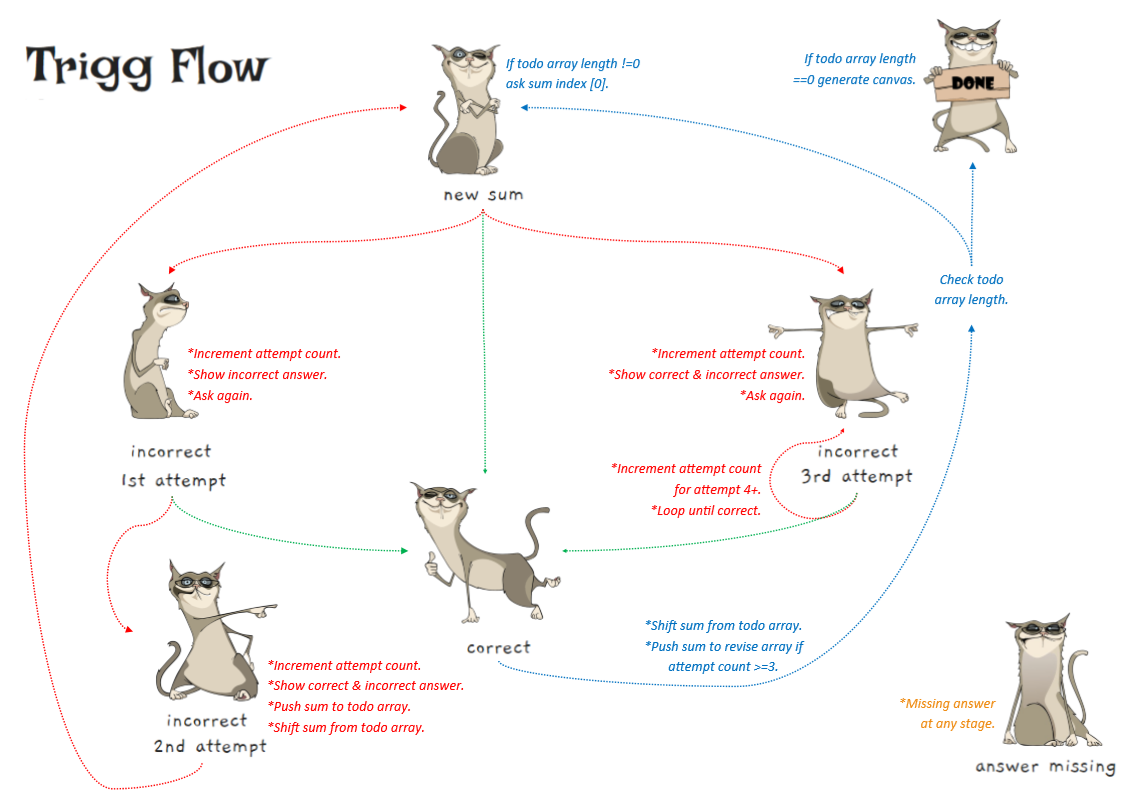
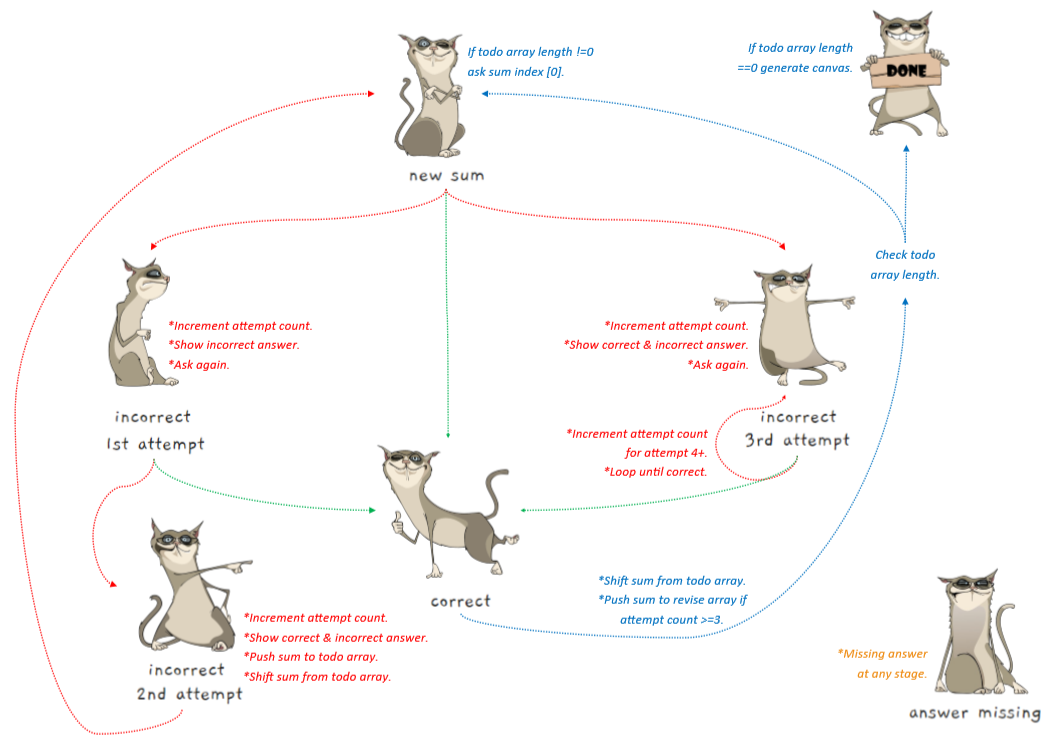
Update README text & images.

diff --git a/README.md b/README.md
@@ -9,7 +9,8 @@
 
 ## UX
 
-Trigg 4 Tables is aimed at primary school children aged 9 to 12 years, who are often set times tables homework. The website allows children to select what they want to practice. Trigg the cat then guides them presenting sums, confirming answers and helping out when needed. Once complete, a detailed report is generated which can be downloaded as a png file to facilitate easy sharing via text, snapchat, WhatsApp etc. The report acts as confirmation that homework has been completed and highlights any sum the child struggled with.
+Trigg 4 Tables is aimed at primary school children aged 9 to 12 years, who are often set times tables homework. The website allows children to select tables to practice. Trigg the cat then guides them presenting sums, confirming answers and helping out when needed. Once complete, a detailed report is generated which can be downloaded as a png file to facilitate easy sharing via WhatsApp, Snapchat, text etc. The report acts as confirmation that homework has been completed and highlights any sum the child struggled with.
+
 Trigg 4 Tables has been designed to address some of the limitations of similar websites and apps:
 
 1. **Target Age** Graphics designed to appeal to an older child. 
@@ -41,7 +42,7 @@ I love maths, enjoy practising times tables and am ever so slightly competitive.
 
 4. **Teacher**
 
-Not every child in my class has someone that can help them with homework. Having canvased their parents, my students are now using Trigg 4 Tables each night to practice the assigned times tables. Students WhatsApp their reports to me. I have noticed a marked improvement in our Friday maths test scores especially amongst students who had been struggling. Other teachers have started to ask about Trigg.
+Not every child in my class has someone that can help with homework. Having canvased parents, my students are now using Trigg 4 Tables each night to practice the assigned times tables. Students WhatsApp their reports to our Trigg group. I have noticed a marked improvement in our Friday maths test scores, especially amongst students who had been struggling. Other teachers have started to ask about Trigg.
 
 
 ### Design
@@ -58,7 +59,7 @@ The look and feel of Trigg 4 Tables was designed to appeal to the target audienc
 
 5. **Fonts** The heading fonts were chosen to convey a sense of fun. Number and keypad fonts were chosen for legibility. Message fonts were chosen to reflect the handwriting of the target audience. 
 
-6. **Preparation** Balsamiq was used to generate [wireframes](https://github.com/coderbeez/trigg4tables/blob/master/assets/wireframes/wireframes.pdf) for various device sizes. The [initial proposal](https://github.com/coderbeez/trigg4tables/blob/master/assets/wireframes/proposal.pdf) document and [Bootstrap plan(https://github.com/coderbeez/trigg4tables/blob/master/assets/wireframes/bootstrap.PNG) were completed using Microsoft Powerpoint. Testing during development resulted in several changes to the original design with a move away from device keypads, a reduction in text, and a focus on maintaining a scroll free site even on smaller mobiles. 
+6. **Preparation** Balsamiq was used to generate [wireframes](https://github.com/coderbeez/trigg4tables/blob/master/assets/wireframes/wireframes.pdf) for various device sizes. The [initial proposal](https://github.com/coderbeez/trigg4tables/blob/master/assets/wireframes/proposal.pdf) document and [Bootstrap plan](https://github.com/coderbeez/trigg4tables/blob/master/assets/wireframes/bootstrap.PNG) were completed using Microsoft Powerpoint. Testing during development resulted in several changes to the original design with a move away from device keypads and a reduction in text.
 
 
 ## Features
@@ -66,39 +67,42 @@ The look and feel of Trigg 4 Tables was designed to appeal to the target audienc
 ### Existing Features *Components*
 
 ![Trig FlowChart](https://github.com/coderbeez/trigg4tables/blob/master/assets/images/features.png)
-*Components of this single page no-scroll website*
+*Website Components*
 
 
-1. **Trigg Images** Trigg character images from [VectorStock](https://www.vectorstock.com/royalty-free-vectors/vectors-by_Westamult) set the overall look of the website. jQuery is used to add and remove classes alternating Trigg’s expressions and providing feedback for the child.
+1. **Trigg Images** Trigg character images from [VectorStock](https://www.vectorstock.com/royalty-free-vectors/vectors-by_Westamult) set the overall look of the website. jQuery is used to change the image source, alternating Trigg’s expressions and providing feedback for the child.
 
 ![Trig FlowChart](https://github.com/coderbeez/trigg4tables/blob/master/assets/wireframes/triggflow.png)
+*Question & Answer Flowchart*
 
-2. **Information Video** Although the website was designed to be as intuitive as possible, an instruction video was created using [Snagit](https://www.techsmith.com/screen-capture.html) with voiceover by an enthusiastic 12 year old. A dedicated YouTube channel was created to host Trigg’s video. Given the target audience, this was deemed to be the most appropriate medium. Text instructions were also included for improved accessibility.
 
-3. **Keypads** Touch screen keypad functionality and positioning was a serious problem so the initial design was amended to include dedicated static keypads to. jQuery on click functions and JavaScript concat method are used to retrieve values from HTML buttons, radio buttons and input fields. CSS styles including active simulates key pressing and indicates selection.
+2. **Information Video** Although the website was designed to be as intuitive as possible, an instruction video was created using [Snagit](https://www.techsmith.com/screen-capture.html) with voiceover by an enthusiastic 12 year old. A dedicated YouTube channel was setup to host Trigg’s video. Given the target audience, this was deemed the most appropriate medium. Text instructions were also included for improved accessibility.
 
-4. **Timer** JavaScript setTimeout and clearTimeout methods are used to start the timer on go and stop on complete. The time taken to complete is shown on the report canvas. 
+3. **Keypads** Touch screen keypad functionality and positioning was a serious problem, so the initial design was amended to include website keypads. jQuery click and JavaScript concat methods are used to enter and retrieve values from HTML buttons, radio buttons and labels. CSS styles, including active, simulate key pressing and indicate selection.
 
-5. **Sound** JavaScript play methods are used to provide audio feedback when an answer is missing, correct, incorrect or all complete. Sound can be turned on or off at any stage by clicking the sound icon. 
+4. **Timer** JavaScript setTimeout and clearTimeout methods are used to start the timer on go and stop on complete. Time taken to finish is shown on the report canvas.
+
+5. **Sound** JavaScript play methods are used to provide audio feedback when an answer is missing, correct, incorrect or all complete. Sound can be turned on or off at any stage by clicking the sound icon.
 
 6. **Clear** Using the JavaScript reload method, the website can be refreshed at any stage by clicking the x icon, taking the child back to the start.
 
 7. **Tables** Times tables lists are generated, randomised, marked as completed and highlighted as needing revision, using 3 JavaScript arrays, timesArray, todoArray and reviseArray.
 
-8. **Feedback** jQuery hide, show, add and remove class methods are used to provide text and visual instructions and feedback to the child.
+8. **Feedback** jQuery hide, show, add and remove class methods are used to provide instructions and feedback.
 
 9. **Progress** jQuery is used to set the attributes for a [Bootstrap](https://getbootstrap.com/docs/4.3/components/progress/) progress bar showing the child how they are progressing.
 
-10. **Report** [jCanvas](https://projects.calebevans.me/jcanvas/) is used to fill and format a HTML canvas element. This canvas acts as a detailed report showing the date, tables, time taken to complete and any tables that need to be revised. 
+10. **Report** [jCanvas](https://projects.calebevans.me/jcanvas/) is used to fill and format a HTML canvas element. This canvas acts as a detailed report showing the date, tables, time taken to complete and any sums that need to be revised. 
 
 11. **Download** Clicking the download button converts the canvas report first to a blob and then to a png file which can be shared. JavaScript libraries [Canvas-toBlob](https://github.com/eligrey/canvas-toBlob.js) and [FileSaver](https://github.com/eligrey/FileSaver.js/) facilitate this.
 
 
 ### Existing Features *Responsiveness*
 
-The website was designed using a mobile first approach. In order to maintain a non-scrolling site, the order, position and visibility of elements changes depending on screen size. CSS attributes and media queries, Bootstrap grid system and display classes, and jQuery methods are used to facilitate this responsiveness.
+This one page website was designed using a mobile first approach. In order to limit scrolling, the order, position and visibility of elements changes depending on screen size. CSS attributes and media queries, Bootstrap grid system and display classes, and jQuery methods are used to facilitate this responsiveness.
 
-![Trig FlowChart]( https://github.com/coderbeez/trigg4tables/blob/master/assets/wireframes/bootstrap.PNG)
+![Bootstrap Plan]( https://github.com/coderbeez/trigg4tables/blob/master/assets/wireframes/bootstrap.PNG)
+*Bootstrap Column & Row Plan*
 
 
 1. **Viewport Width** Using the [Bootstrap](https://getbootstrap.com/docs/4.3/layout/grid/) grid system, the percentage of viewport width used to display content varies from 100% on small and medium screens to 83% (10 Bootstrap columns) on large screens.
@@ -153,29 +157,32 @@ The website was designed using a mobile first approach. In order to maintain a n
 
 ## Testing
 
-### Validation
+### Validation & Automated Testing
 
-**HTML** 
+**HTML**
+
 [W3C Validation Service](https://validator.w3.org/) Used to test the validity of HTML – no errors found.
 
 **CSS**
+
 [W3C CSS Validation Service](https://jigsaw.w3.org/css-validator/) Used to test the validity of CSS – no errors found.
 
 **JAVASCRIPT**
-[jshint](https://jigsaw.w3.org/css-validator/) Used to test the validity of JavaScript – no errors found.
 
-[Jasmine](https://jasmine.github.io/) Used to complete automated testing of 
+[jshint](https://jigsaw.w3.org/css-validator/) Used to test the validity of JavaScript functions – no errors found.
+
+[Jasmine](https://jasmine.github.io/) Used to complete automated testing of some JavaScript functions – 22 specs 0 errors.
 
 
-### Manual Site Testing
+### Manual Testing
 
 Throughout the development process, [Chrome Developer Tools]( https://developers.google.com/web/tools/chrome-devtools/) were used to test for responsiveness on various screen sizes, android and iOS mobiles to test for functionality and layout, and Chrome, Edge and Firefox browsers to identify bugs as early as possible.
 
 Following sign off, structured testing of the site was carried out using various browsers and screens sizes as follows:
 
-| **BROWSER** | **Android** | **iOS** | **iOS** | **Explorer** | **Edge** | **Chrome** | **Firefox** | **Safari** |
+| **BROWSER** | **Android** | **iOS** | **Android** | **iOS** | **Edge** | **Chrome** | **Firefox** | **Safari** |
 | --- | --- | --- | --- | --- | --- | --- | --- | --- |
-| **SCREEN SIZE** | **Small** | **Small** | **Medium** | **Large** | **Large** | **Large** | **Large** | **Large** |
+| **SCREEN SIZE** | **Small** | **Small** | **Medium** | **Medium** | **Large** | **Large** | **Large** | **Large** |
 | **INFORMATION** | --- | --- | --- | --- | --- | --- | --- | --- |
 | Infor Icon Click | P | P | P | P | P | P | P | P |
 | YouTube Video Play | P | P | P | P | P | P | P | P |
@@ -271,29 +278,46 @@ N/A - Not Applicable
 
 ### Bug Log
 
-1. **Enter Key Reload Site** During development on a desktop, pressing the enter key would reload the page sending the user back to the start. 
+1. **Keyboard on Touch Screen Devices** During development it quickly became apparent that relying on inbuilt keyboards on touch screen devices provided poor UX. Keypads were built into the website to avoid using device keyboards.
 
-2. **Radio Buttons on iOS** During development 
+2. **Tables on iOS** Initial keypad designs relied on tables to position elements. Although no problem was encountered with android, tables did not render correctly on iOS. Keypads were redesigned using br elements and margins.
 
-3. **Keyboard on Mobile Devices** During testing 
+3. **Radio Buttons on iOS** To limit the selection of just one item from a group, radio buttons were wrapped in label elements. Labels were then styled as buttons and radios hidden to provide a consistent look to keypads. Although no problem was encountered with android, radio buttons remained visible on iOS. The following CSS styling fixed. 
 
-4. **Tables on iOS** During testing 
+```input[type="radio"] {
+  -webkit-appearance: none;
+}
 
-5. **Blob to Canvas on Edge** When test
+[type="radio"] {
+  border: 0;
+  clip: rect(0 0 0 0);
+  height: 1px;
+  margin: -1px;
+  overflow: hidden;
+  padding: 0;
+  position: absolute;
+  width: 1px;
+}
+/*WHERE: https://www.sitepoint.com/replacing-radio-buttons-without-replacing-radio-buttons/*/```
 
-6. **Video Stop Playing on Hide** During testing
 
-7. **Background images first use not loading in iOS** During testing
+4. **Enter Key Reload Site** During development it was noted pressing the enter key on a desktop would reload the page sending the user back to the start. 
 
-8. **Error message re jCanvas-to-Blob on iOS** During testing
+5. **Video Stop Playing on Hide** During development
 
-9. **Ipad double click** During testing
+7. **Audio not consistently audible** During development
 
-10. **Keyboard access** During testing
+8. **Keyboard access** During development
 
-11. **Audio not consistently audible** During testing
+6. **Background images first use not loading in iOS** During development
 
-12. **mp3 Audio clip not loading in Firefox** During testing
+9. **Ipad double click** During development
+
+10. **mp3 Audio clip not loading in Firefox** During testing
+
+11. **Blob to Canvas on Edge** During testing 
+
+12. **Error message re jCanvas-to-Blob on iOS** During testing
 
 
 ### Deployment
@@ -378,3 +402,4 @@ The following instructions were taken from [GitHib Help]( https://help.github.co
 
 
 ### Acknowledgements
+
